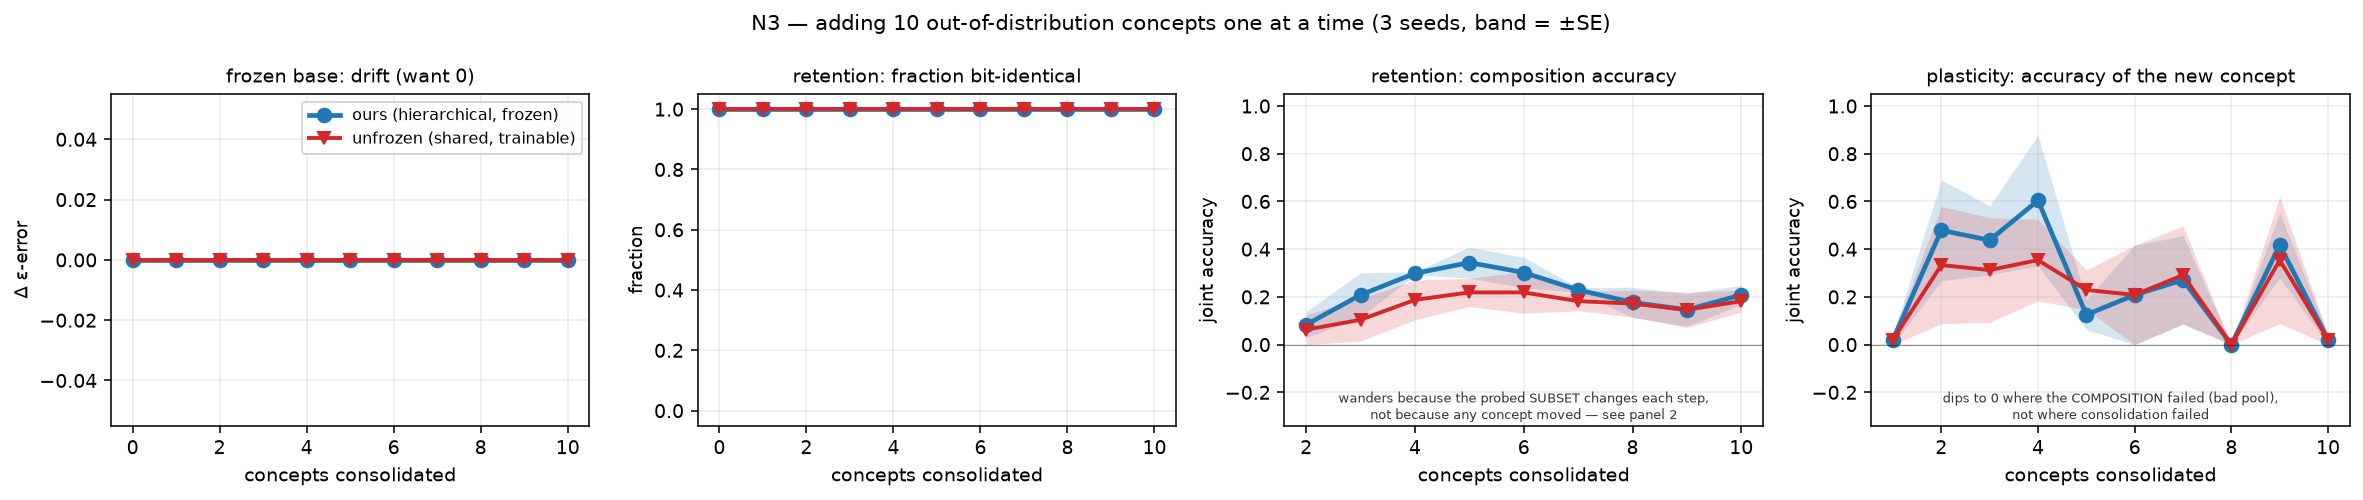
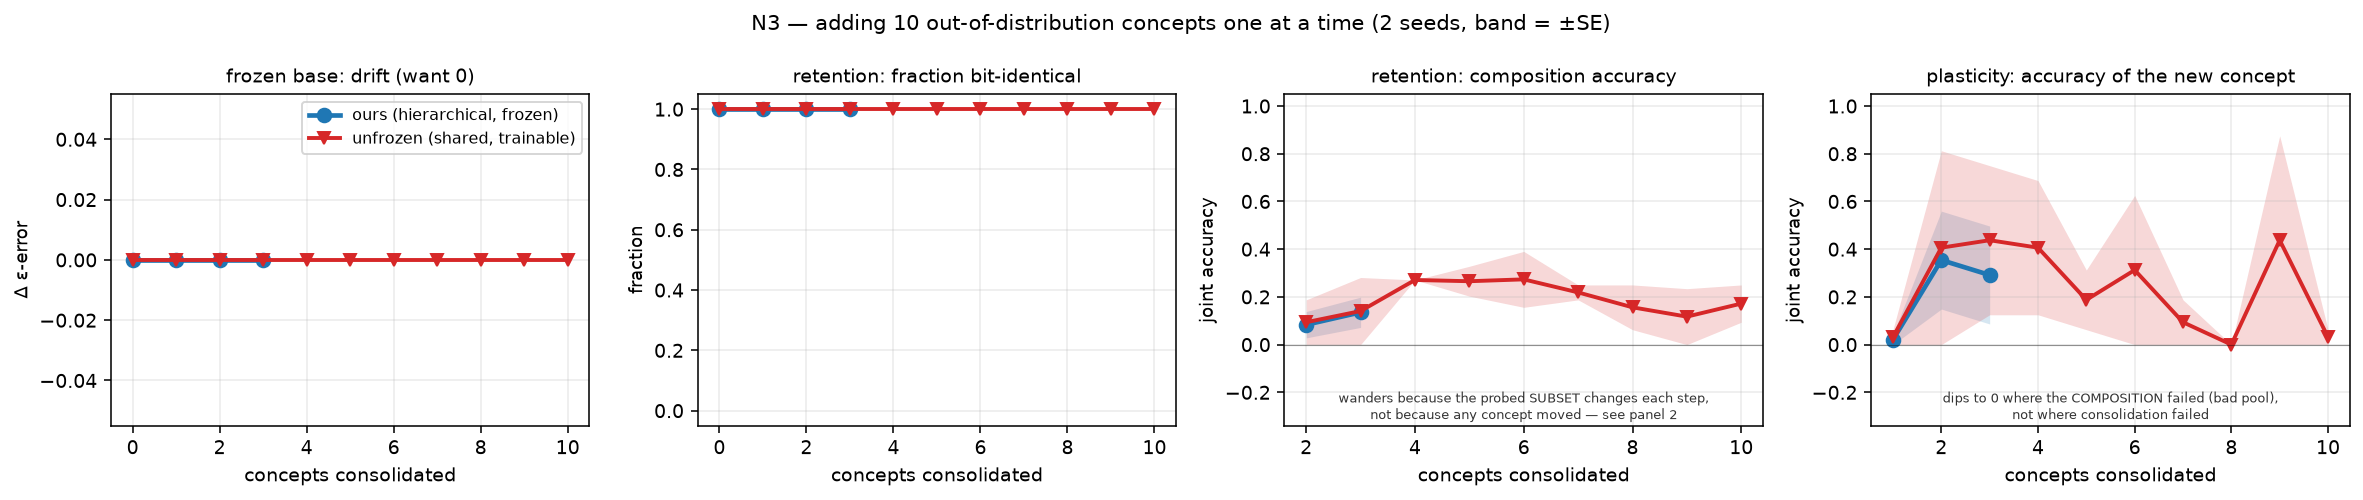
Baseline comparison over 3 seeds: isolation beats protection decisively
Six methods, same backbone, same adapter parameterization, same optimizer budget; only the
retention mechanism differs.

  ttt          ACC 0.844+/-0.011  BWT +0.008  bit-identical 1.00  wall 1025s
  independent  ACC 0.821+/-0.011  BWT  0.000  bit-identical 1.00  wall  260s
  ours         ACC 0.818+/-0.025  BWT  0.000  bit-identical 1.00  wall  396s
  ewc          ACC 0.720+/-0.024  BWT -0.112  bit-identical 0.25  wall  358s
  finetune     ACC 0.701+/-0.036  BWT -0.134  bit-identical 0.25  wall  264s
  replay       ACC 0.658+/-0.077  BWT -0.174  bit-identical 0.25  wall  479s

The split is isolation versus protection.  Everything that REMOVES shared parameters from
the optimizer reaches BWT exactly 0.000 with every concept bit-identical; everything that
tries to PROTECT shared parameters while still training them sits between -0.11 and -0.17
with a quarter of concepts preserved.  EWC does real work (-0.112 against finetune's
-0.134) but a soft quadratic penalty cannot deliver what removing the parameter does, and
costs 36% more wall clock to get partway there.

Two findings worth stating rather than burying.  Generative replay is WORSE than no
protection at all (-0.174 vs -0.134), reproducibly, at 1.8x the wall clock -- replayed
pools come from concepts that are themselves drifting, so replay rehearses the drift it
exists to prevent.  And TTT wins on accuracy while having the weakest claim to being a
[…]

diff --git a/RESULTS.md b/RESULTS.md
@@ -648,6 +648,47 @@ probes all run end to end; **12 of 14 attributes are readable at ≥0.65 validat
 unreadable two are excluded from scoring rather than silently counted. A real backbone run and the
 composition experiments on it are the next step, not yet done.
 
+
+## 5k. Baselines — structural isolation vs. learned protection (N5, 3 seeds)
+
+Six methods on the same backbone, the same adapter parameterization and the same optimizer budget;
+only the retention mechanism differs. 12 tasks of real held-out images, class-incremental.
+
+| method | ACC | **BWT** | FGT | bit-identical | wall (s) |
+|---|---|---|---|---|---|
+| `ttt` (test-time training) | **0.844 ± 0.011** | +0.008 ± 0.010 | 0.004 | 1.000 | **1025** |
+| `independent` (parameter isolation) | 0.821 ± 0.011 | **0.000 ± 0.000** | **0.000** | **1.000** | 260 |
+| **`ours`** (frozen hierarchy) | 0.818 ± 0.025 | **0.000 ± 0.000** | **0.000** | **1.000** | 396 |
+| `ewc` (Kirkpatrick et al.) | 0.720 ± 0.024 | −0.112 ± 0.011 | 0.116 | 0.250 | 358 |
+| `finetune` (no protection) | 0.701 ± 0.036 | −0.134 ± 0.023 | 0.140 | 0.250 | 264 |
+| `replay` (Shin et al.) | 0.658 ± 0.077 | −0.174 ± 0.071 | 0.189 | 0.250 | 479 |
+
+**The clean split is isolation vs protection, and it is not close.** Every method that *removes*
+shared parameters from the optimizer — ours, independent, TTT — reaches BWT exactly 0.000 with every
+concept bit-identical. Every method that tries to *protect* shared parameters while still training
+them — EWC, replay, plain finetune — sits between −0.11 and −0.17 with only a quarter of concepts
+preserved. EWC is doing real work (−0.112 vs finetune's −0.134, and +0.019 ACC) but a soft quadratic
+penalty cannot deliver what removing the parameter does, and it costs 36% more wall clock to get
+there.
+
+**Generative replay is worse than no protection at all** (−0.174 vs −0.134), reproducibly, at 1.8×
+the wall clock. The mechanism is self-poisoning: replayed pools are sampled from concepts that are
+themselves already drifting, so replay rehearses the drift it exists to prevent. Replay assumes a
+stable generator, which a forgetting generative model is precisely not.
+
+**TTT is the strongest baseline on accuracy and the weakest claim to being a lifelong learner.** It
+wins ACC (0.844 vs our 0.818) and cannot forget — because it retains nothing. What the table shows
+that the accuracy column alone does not: it needs **2.6× the wall clock** (1025s vs 396s), and it
+must **keep every task's data forever** and re-run an optimization each time a task is queried. A
+consolidated concept here is a fixed set of weights that is simply read. TTT is the right control
+for "is retention doing any work?", and the answer it gives is that retention buys a 2.6× compute
+reduction and the ability to discard the data — not raw accuracy.
+
+**Honest note on our own arm:** `independent` matches us (0.821 vs 0.818, inside the error bars) with
+19% fewer parameters. Freezing is what delivers zero forgetting; the hierarchy buys the warm start
+and the batch speedup (§5b), not final accuracy. That was true before the baselines and the
+baselines do not change it.
+
 ## 6. Why we are *not* replicating the paper's diffusion results
 
 Side by side on ColorMNIST — their F1 (harmonic mean of precision and recall in Inception feature
